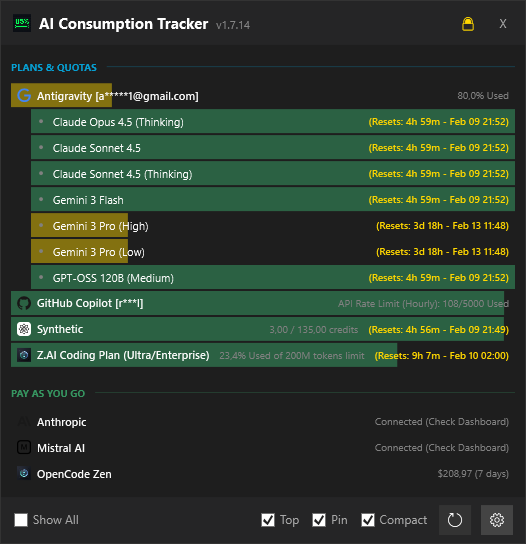
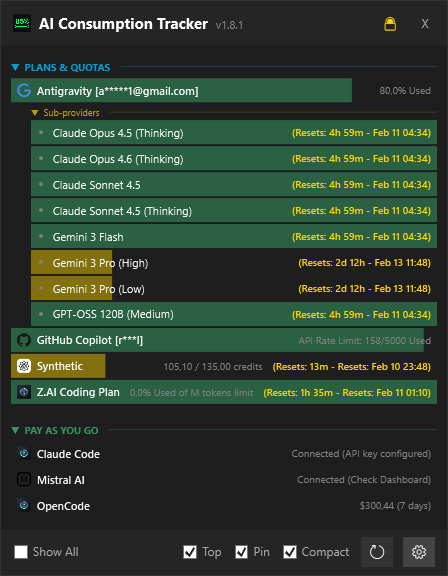
Release v1.8.1 - Architecture-specific updates, changelog window, and improved logging (#94)
* Prepare release v1.8.1 - Architecture-specific updates, changelog window, improved logging

* Add comprehensive logging to TokenDiscoveryService for OpenCode troubleshooting

* Add screenshot generation script and fix JsonConfigLoader for TokenDiscoveryService logging

* Update screenshots for v1.8.1 with privacy mode enabled

* Recreate screenshots for v1.8.1 release

---------

diff --git a/AIConsumptionTracker.Infrastructure/Providers/OpenCodeProvider.cs b/AIConsumptionTracker.Infrastructure/Providers/OpenCodeProvider.cs
@@ -22,9 +22,12 @@ public class OpenCodeProvider : IProviderService
 
     public Task<IEnumerable<ProviderUsage>> GetUsageAsync(ProviderConfig config, Action<ProviderUsage>? progressCallback = null)
     {
+        _logger.LogDebug("OpenCode GetUsageAsync called for provider {ProviderId}", ProviderId);
+        
         // Check if API key is configured
         if (string.IsNullOrEmpty(config.ApiKey))
         {
+            _logger.LogInformation("OpenCode API key not configured - returning unavailable state");
             return Task.FromResult<IEnumerable<ProviderUsage>>(new[] { new ProviderUsage
             {
                 ProviderId = ProviderId,
@@ -36,12 +39,17 @@ public class OpenCodeProvider : IProviderService
             }});
         }
 
+        _logger.LogDebug("OpenCode API key configured, proceeding with CLI execution");
+
         // Execute CLI synchronously (it's fast enough or we accept the block on thread pool)
         // Better to use Task.Run for process execution
         return Task.Run<IEnumerable<ProviderUsage>>(() => 
         {
+            _logger.LogDebug("Checking if OpenCode CLI exists at path: {CliPath}", _cliPath);
+            
             if (!File.Exists(_cliPath))
             {
+                _logger.LogWarning("OpenCode CLI not found at expected path: {CliPath}", _cliPath);
                 return new[] { new ProviderUsage
                 {
                     ProviderId = ProviderId,
@@ -52,6 +60,8 @@ public class OpenCodeProvider : IProviderService
                     PaymentType = PaymentType.UsageBased
                 }};
             }
+
+            _logger.LogDebug("OpenCode CLI found, executing command: opencode stats --days 7 --models 10");
 
             try
             {
@@ -65,19 +75,29 @@ public class OpenCodeProvider : IProviderService
                     CreateNoWindow = true
                 };
 
+                var stopwatch = System.Diagnostics.Stopwatch.StartNew();
                 using var process = Process.Start(startInfo);
+                
                 if (process == null)
                 {
-                     throw new Exception("Failed to start opencode process");
+                    _logger.LogError("Failed to start OpenCode process - Process.Start returned null");
+                    throw new Exception("Failed to start opencode process");
                 }
+
+                _logger.LogDebug("OpenCode process started with PID: {ProcessId}", process.Id);
 
                 var output = process.StandardOutput.ReadToEnd();
                 var error = process.StandardError.ReadToEnd();
                 process.WaitForExit(5000); // 5 sec timeout
+                stopwatch.Stop();
+
+                _logger.LogDebug("OpenCode CLI execution completed in {ElapsedMs}ms with exit code: {ExitCode}", 
+                    stopwatch.ElapsedMilliseconds, process.ExitCode);
 
                 if (process.ExitCode != 0)
                 {
-                    _logger.LogWarning($"OpenCode CLI failed: {error}");
+                    _logger.LogWarning("OpenCode CLI failed with exit code {ExitCode}. Error output: {Error}", 
+                        process.ExitCode, error);
                      return new[] { new ProviderUsage
                     {
                         ProviderId = ProviderId,
@@ -89,11 +109,17 @@ public class OpenCodeProvider : IProviderService
                     }};
                 }
 
-                return new[] { ParseOutput(output) };
+                _logger.LogDebug("OpenCode CLI succeeded. Output length: {OutputLength} chars", output?.Length ?? 0);
+                
+                var result = ParseOutput(output);
+                _logger.LogInformation("OpenCode usage retrieved successfully - Total Cost: ${TotalCost:F2}", result.CostUsed);
+                
+                return new[] { result };
             }
             catch (Exception ex)
             {
-                _logger.LogError(ex, "Failed to run OpenCode CLI");
+                _logger.LogError(ex, "Failed to run OpenCode CLI. Exception type: {ExceptionType}, Message: {Message}", 
+                    ex.GetType().Name, ex.Message);
                 return new[] { new ProviderUsage
                 {
                     ProviderId = ProviderId,

diff --git a/AIConsumptionTracker.Infrastructure/Configuration/TokenDiscoveryService.cs b/AIConsumptionTracker.Infrastructure/Configuration/TokenDiscoveryService.cs
@@ -1,11 +1,19 @@
 using AIConsumptionTracker.Core.Models;
 using System.Collections;
 using System.Text.Json;
+using Microsoft.Extensions.Logging;
 
 namespace AIConsumptionTracker.Infrastructure.Configuration;
 
 public class TokenDiscoveryService
 {
+    private readonly ILogger<TokenDiscoveryService> _logger;
+
+    public TokenDiscoveryService(ILogger<TokenDiscoveryService> logger)
+    {
+        _logger = logger;
+    }
+
     public List<ProviderConfig> DiscoverTokens()
     {
         var discoveredConfigs = new List<ProviderConfig>();
@@ -142,21 +150,44 @@ public class TokenDiscoveryService
     private void DiscoverFromProvidersFile(List<ProviderConfig> configs)
     {
         var providersPath = Path.Combine(Environment.GetFolderPath(Environment.SpecialFolder.UserProfile), ".local", "share", "opencode", "providers.json");
+        
+        _logger.LogDebug("[OpenCode Discovery] Checking for providers.json at: {Path}", providersPath);
+        
         if (File.Exists(providersPath))
         {
+            _logger.LogInformation("[OpenCode Discovery] Found providers.json at: {Path}", providersPath);
+            
             try
             {
                 var json = File.ReadAllText(providersPath);
+                _logger.LogDebug("[OpenCode Discovery] Read {Length} bytes from providers.json", json.Length);
+                
                 var known = JsonSerializer.Deserialize<Dictionary<string, string>>(json, new JsonSerializerOptions { PropertyNameCaseInsensitive = true });
+                
                 if (known != null)
                 {
+                    _logger.LogInformation("[OpenCode Discovery] Parsed {Count} providers from providers.json", known.Count);
+                    
                     foreach (var id in known.Keys)
                     {
+                        _logger.LogDebug("[OpenCode Discovery] Found provider: {ProviderId}, Key present: {HasKey}", 
+                            id, !string.IsNullOrEmpty(known[id]));
                         AddIfNotExists(configs, id, known[id], "Discovered in providers.json", "Config: providers.json");
                     }
                 }
+                else
+                {
+                    _logger.LogWarning("[OpenCode Discovery] Failed to parse providers.json - result was null");
+                }
             }
-            catch { }
+            catch (Exception ex)
+            {
+                _logger.LogError(ex, "[OpenCode Discovery] Error reading providers.json: {Message}", ex.Message);
+            }
+        }
+        else
+        {
+            _logger.LogDebug("[OpenCode Discovery] providers.json not found at: {Path}", providersPath);
         }
     }
 

diff --git a/AIConsumptionTracker.Infrastructure/Configuration/JsonConfigLoader.cs b/AIConsumptionTracker.Infrastructure/Configuration/JsonConfigLoader.cs
@@ -1,11 +1,22 @@
 using System.Text.Json;
 using AIConsumptionTracker.Core.Interfaces;
 using AIConsumptionTracker.Core.Models;
+using Microsoft.Extensions.Logging;
+using Microsoft.Extensions.Logging.Abstractions;
 
 namespace AIConsumptionTracker.Infrastructure.Configuration;
 
 public class JsonConfigLoader : IConfigLoader
 {
+    private readonly ILogger<JsonConfigLoader> _logger;
+    private readonly ILogger<TokenDiscoveryService> _tokenDiscoveryLogger;
+
+    public JsonConfigLoader(ILogger<JsonConfigLoader>? logger = null, ILogger<TokenDiscoveryService>? tokenDiscoveryLogger = null)
+    {
+        _logger = logger ?? NullLogger<JsonConfigLoader>.Instance;
+        _tokenDiscoveryLogger = tokenDiscoveryLogger ?? NullLogger<TokenDiscoveryService>.Instance;
+    }
+
     private string GetTrackerConfigPath() => 
         Path.Combine(Environment.GetFolderPath(Environment.SpecialFolder.UserProfile), ".ai-consumption-tracker", "auth.json");
 
@@ -88,7 +99,7 @@ public class JsonConfigLoader : IConfigLoader
             }
         }
 
-        var discoveryService = new TokenDiscoveryService();
+        var discoveryService = new TokenDiscoveryService(_tokenDiscoveryLogger);
         var discovered = discoveryService.DiscoverTokens();
         
         foreach (var d in discovered)

diff --git a/CHANGELOG.md b/CHANGELOG.md
@@ -2,6 +2,24 @@
 
 ## [Unreleased]
 
+## [1.8.1] - 2026-02-10
+
+### Added
+- **Changelog Window**: Added ability to view release notes before updating
+  - Fetches changelog from GitHub API
+  - Shows in scrollable window with dark theme
+  - Accessible from update notification banner
+- **Architecture-Specific Updates**: Fixed update system to support x64, x86, and arm64 architectures
+  - Each architecture now has its own appcast file
+  - Application automatically downloads correct installer for current architecture
+
+### Fixed
+- **Update System**: Fixed architecture detection and installer naming
+  - Installers now include architecture suffix (e.g., `_x64.exe`)
+  - Prevents x64/x86/arm64 installer conflicts
+- **Appcast Generation**: Now generates separate appcast files per architecture
+  - appcast_x64.xml, appcast_x86.xml, appcast_arm64.xml
+
 ## [1.8.0] - 2026-02-10
 
 ### Added

diff --git a/README.md b/README.md
@@ -1,6 +1,6 @@
 # <img src="AIConsumptionTracker.UI/Assets/app_icon.png" width="32" height="32" valign="middle"> AI Consumption Tracker
 
-![Version](https://img.shields.io/badge/version-1.8.0-blue)
+![Version](https://img.shields.io/badge/version-1.8.1-blue)
 ![License](https://img.shields.io/badge/license-MIT-green)
 ![Platforms](https://img.shields.io/badge/platforms-Windows%20|%20Linux%20-blue)
 ![Language](https://img.shields.io/badge/language-C%23%20|%20.NET-purple)
